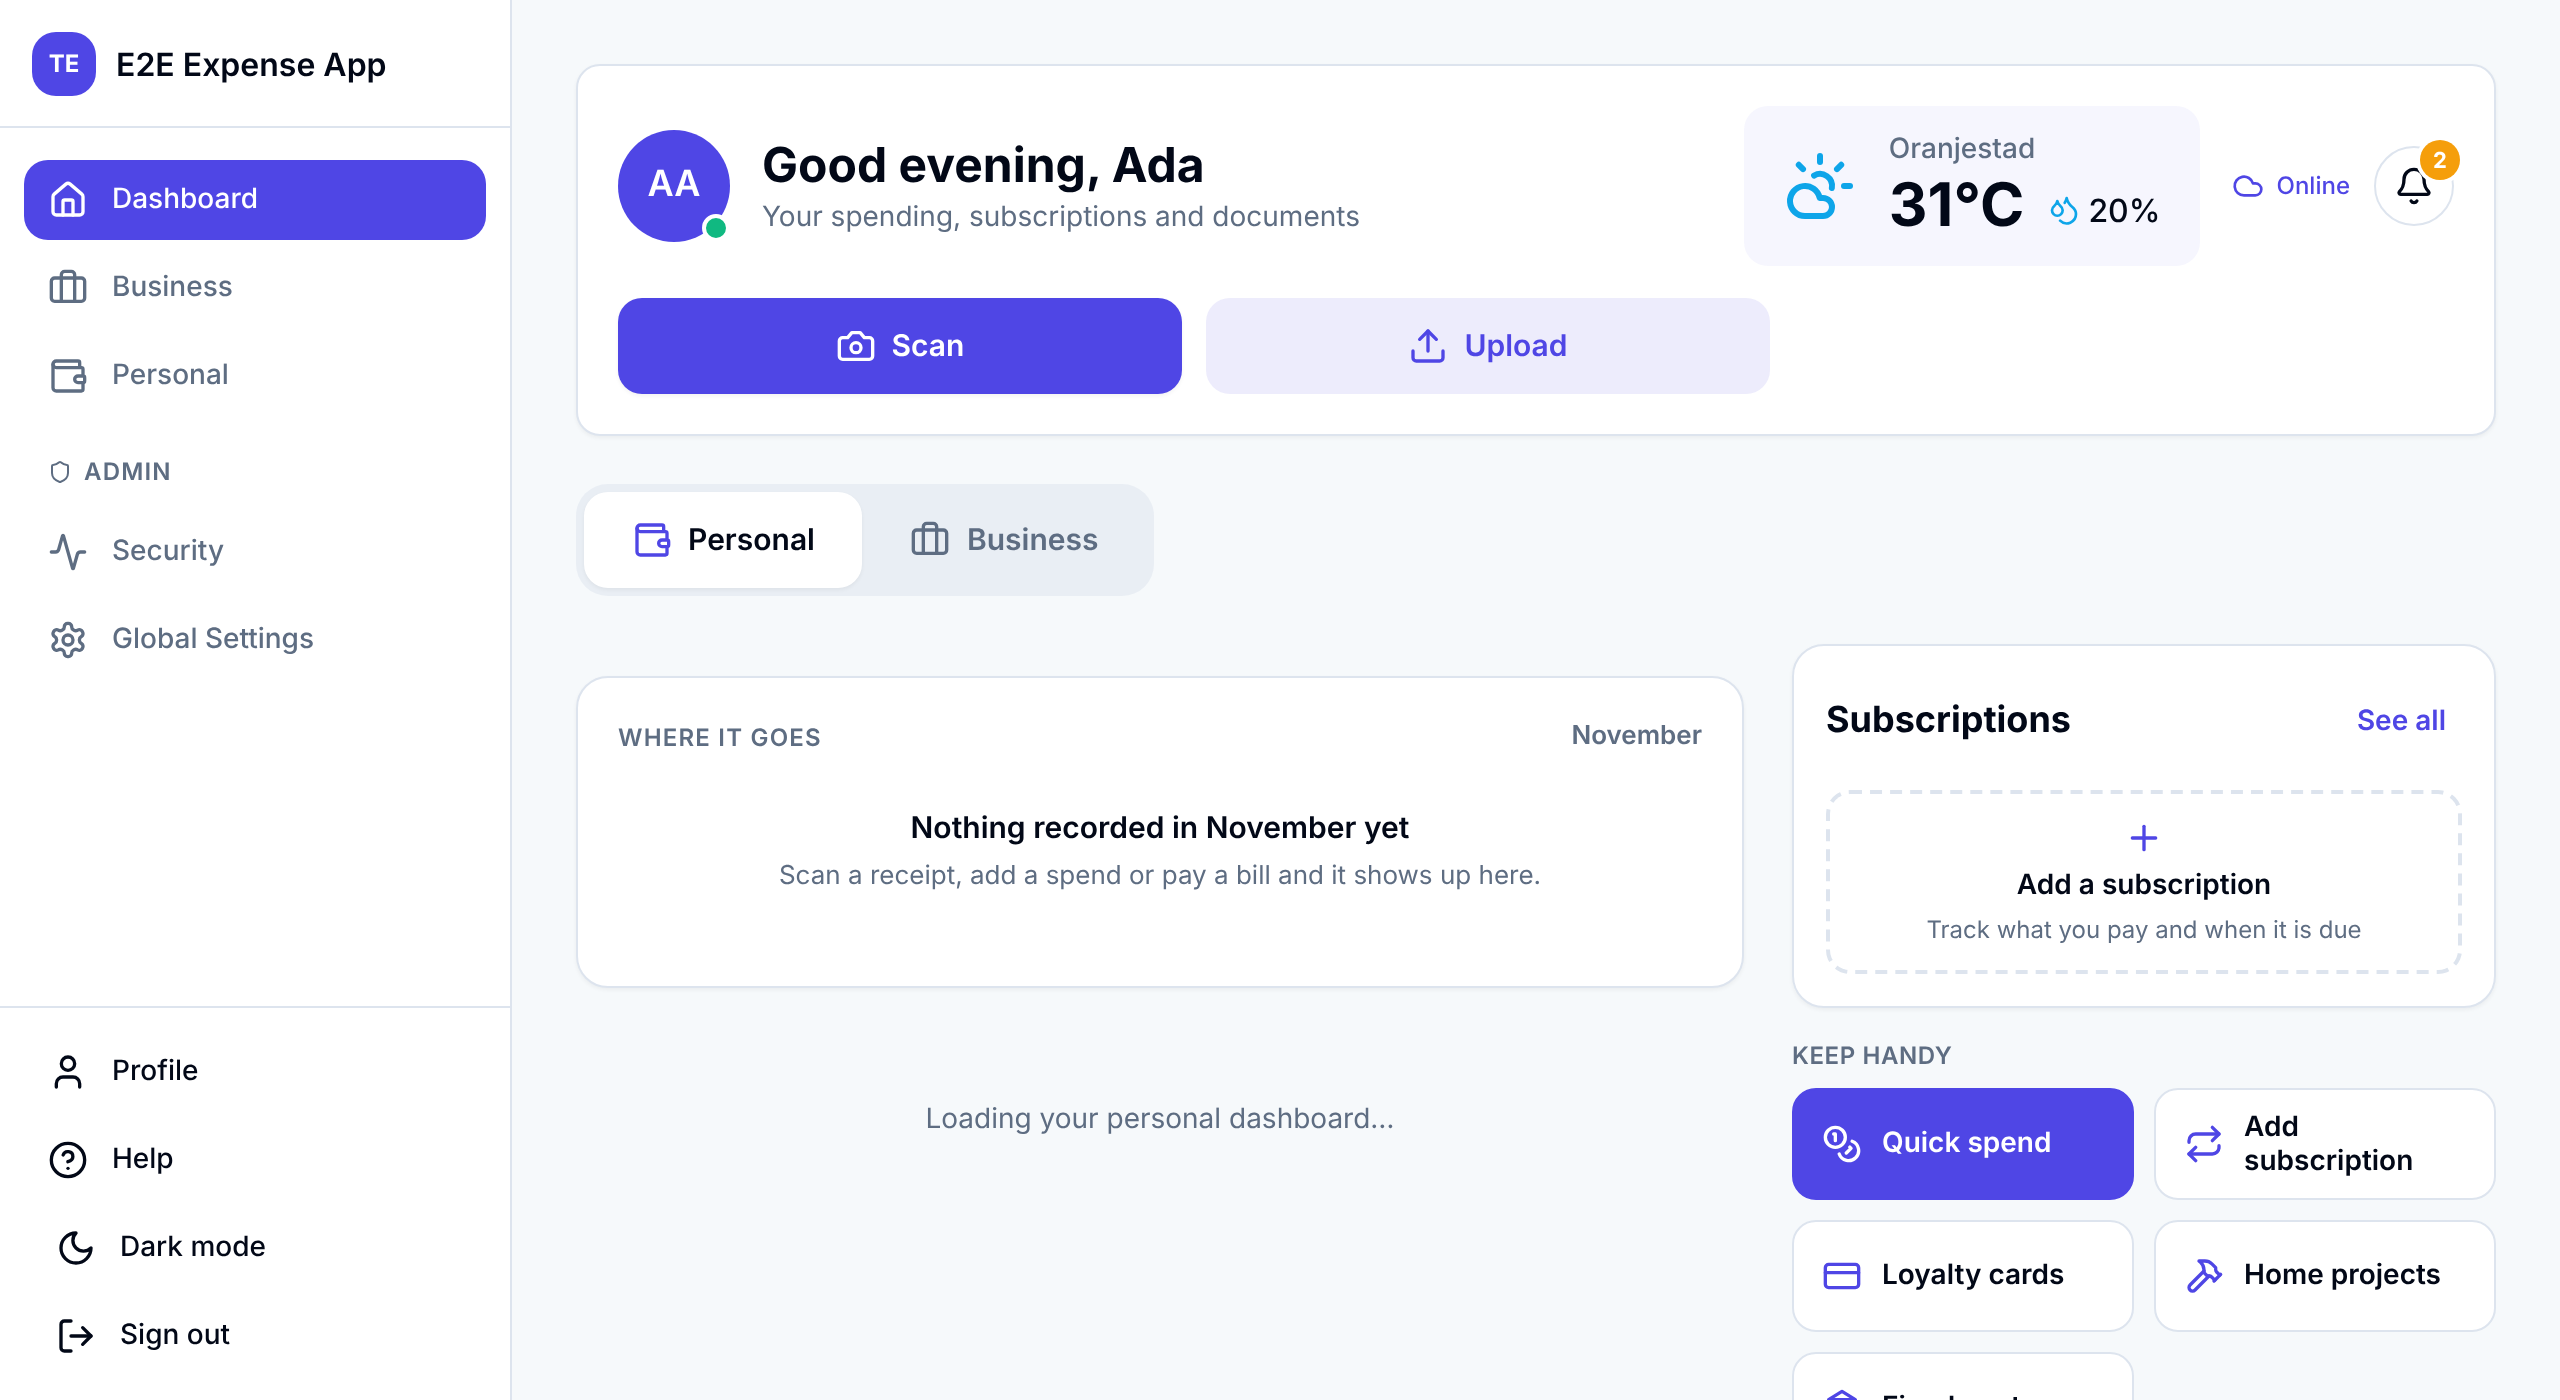
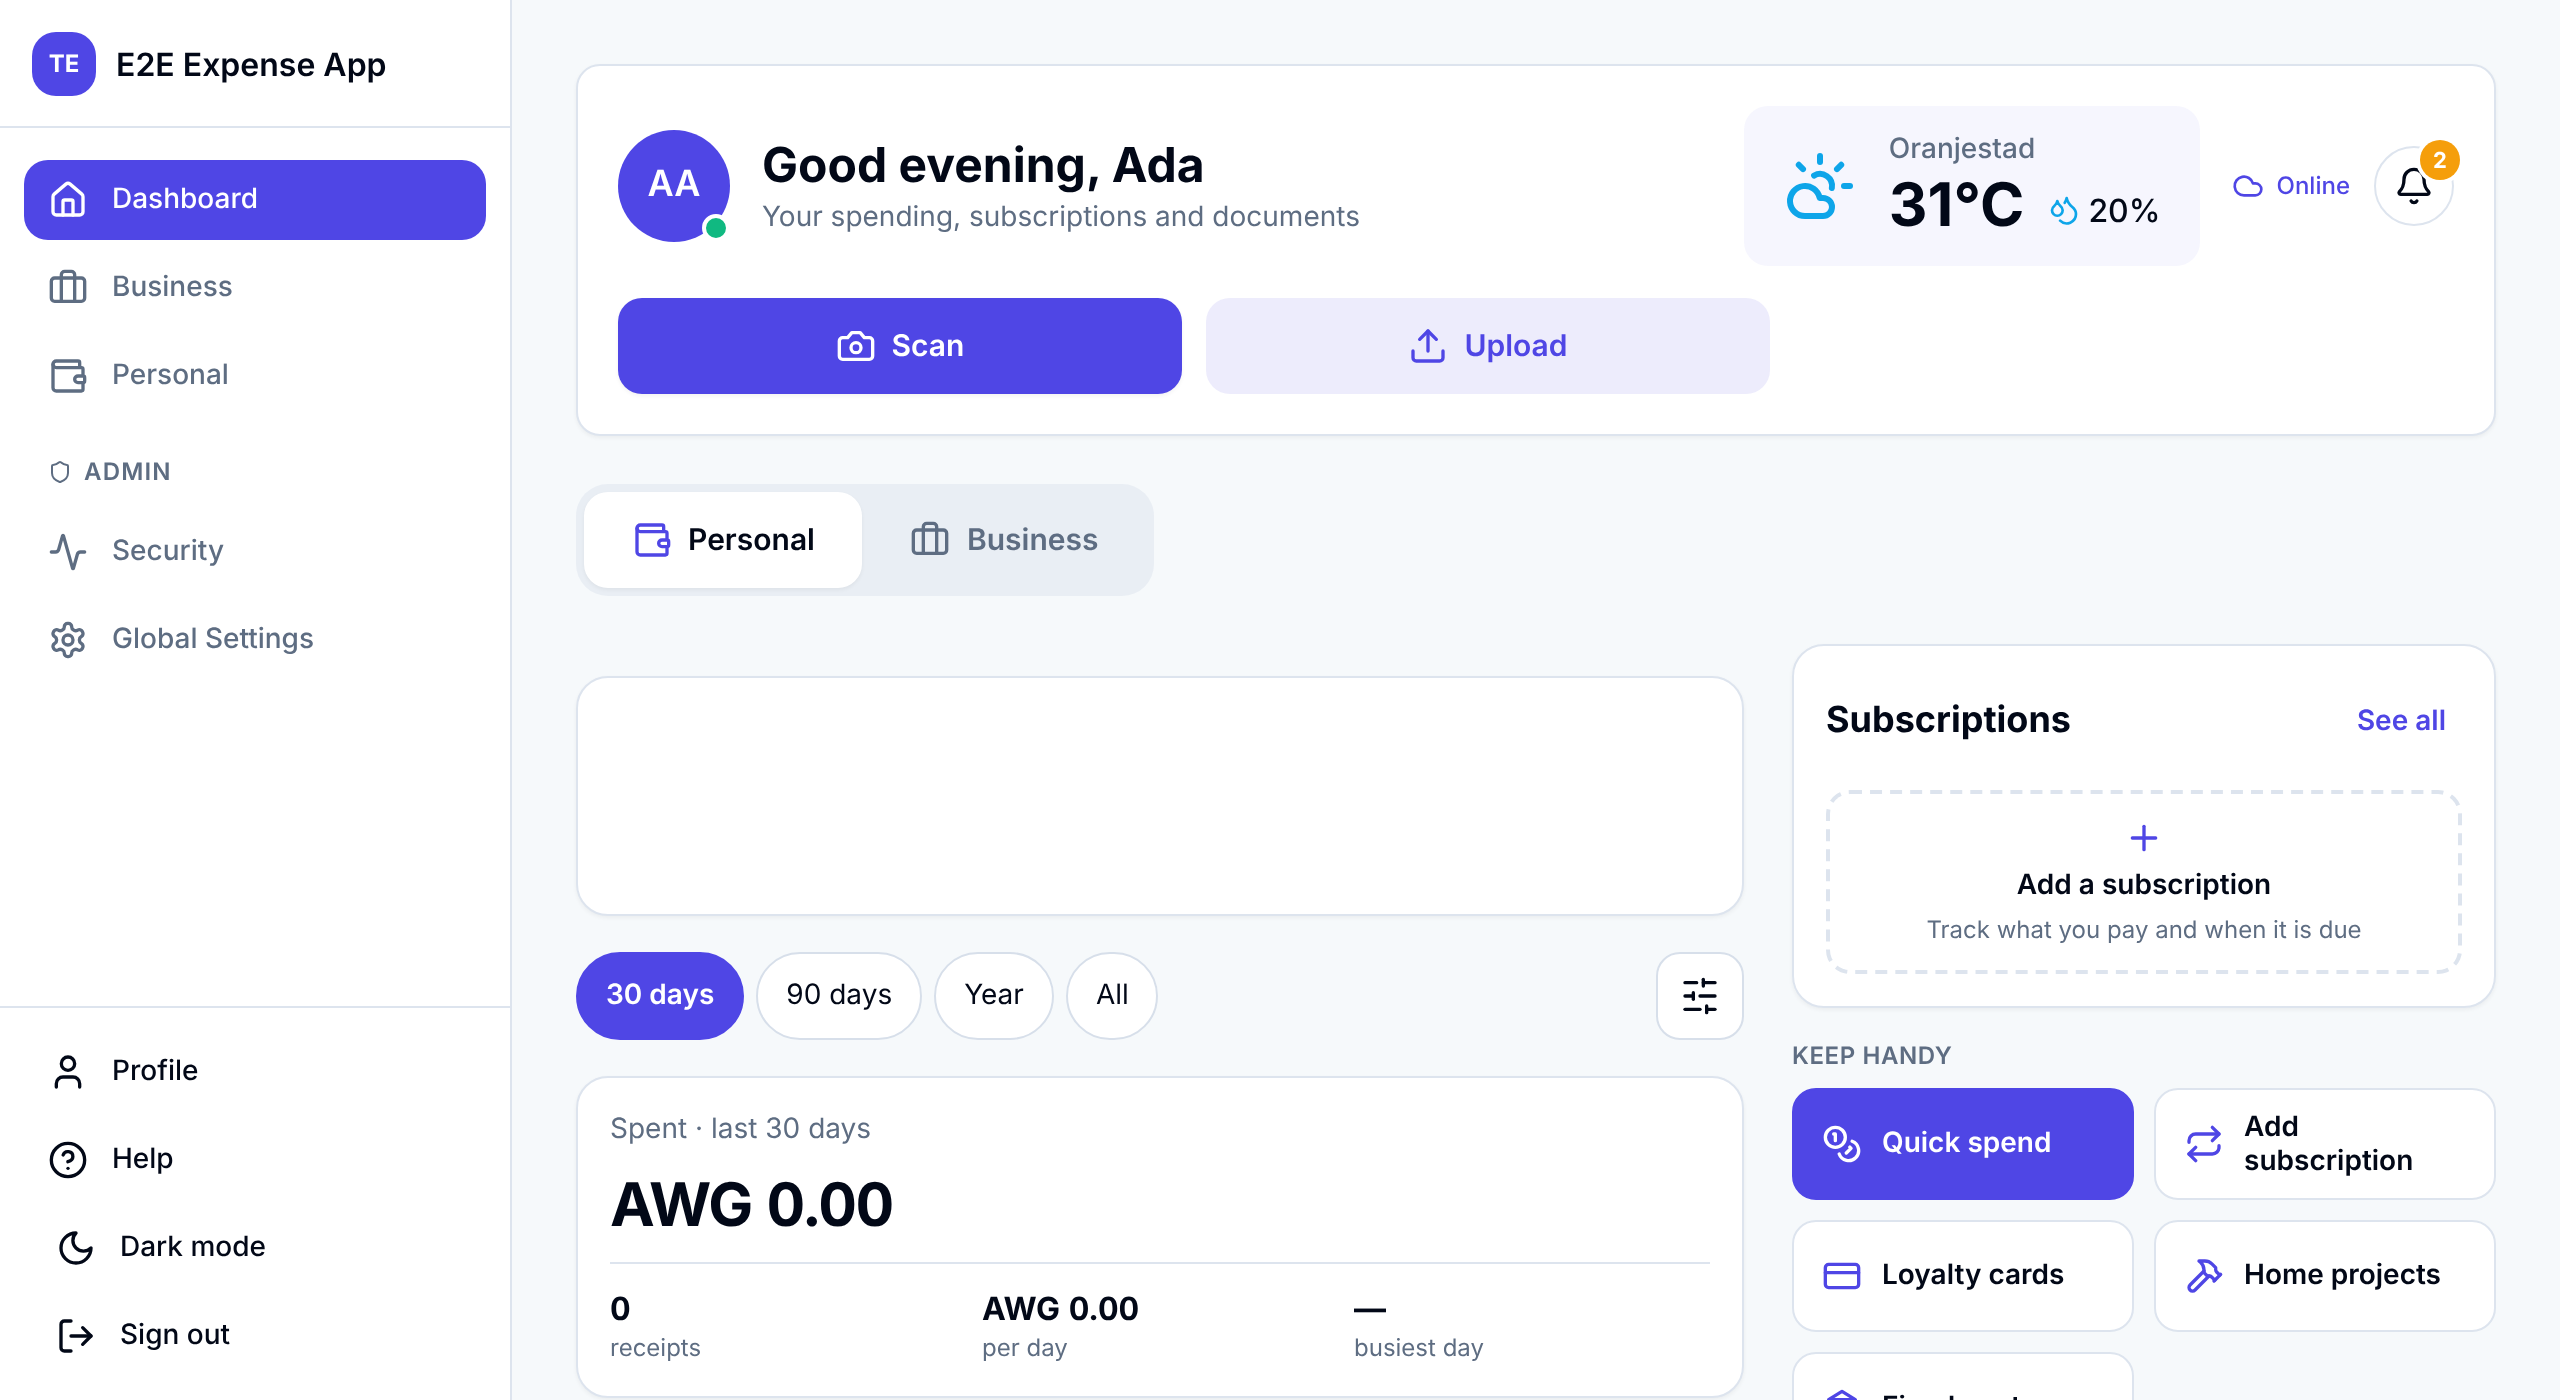
Level-up sheet in the app's style: Congratulations pill, badge, Your path, next level bar, Share my badge
Claude-Session: https://claude.ai/code/session_01CuWvFaDqwZfiNYsTiPN3JJ

diff --git a/src/components/profile/LevelUpNotice.tsx b/src/components/profile/LevelUpNotice.tsx
@@ -1,9 +1,9 @@
 "use client";
 
 import { useEffect, useMemo, useState } from "react";
-import { Share2 } from "lucide-react";
+import { Share2, X } from "lucide-react";
 import { createClient } from "@/lib/supabase/client";
-import { levelUpToShow, progress, readBadge, tierOf, plural, type BadgeState } from "@/lib/personal/badges";
+import { TIERS, levelUpToShow, progress, readBadge, tierOf, plural, type BadgeState } from "@/lib/personal/badges";
 import { BadgeShield } from "@/components/profile/BadgeShield";
 import { BadgeShare } from "@/components/profile/BadgeShare";
 import { Button } from "@/components/ui/button";
@@ -44,33 +44,60 @@ export function LevelUpNotice({ check = 0 }: { check?: number }) {
   if (!t) return null;
   const p = progress(b.total);
   const done = async () => { setB(null); try { await createClient().rpc("ack_badge"); } catch { /* shown again next time */ } };
+  const lvl = t.level;
+  const headline = lvl === 1 ? "Your first badge!" : `You are a ${t.name}!`;
+  const sparkle = (c: string, size: number, pos: React.CSSProperties) => <svg width={size} height={size} viewBox="0 0 24 24" fill={c} style={{ position: "absolute", ...pos }} aria-hidden="true"><path d="M12 1l2.6 8.4L23 12l-8.4 2.6L12 23l-2.6-8.4L1 12l8.4-2.6z" /></svg>;
   return (
     <>
       <style>{CSS}</style>
-      <div className="fixed inset-0 z-50 flex items-center justify-center overflow-hidden p-4" style={{ background: `linear-gradient(165deg, ${t.dark}, #0f766e)` }} role="dialog" aria-modal="true" aria-label={`New badge: ${t.name}`} data-testid="level-up">
-        <div className="pointer-events-none absolute inset-0 overflow-hidden" aria-hidden="true">
+      <div className="fixed inset-0 z-[55] flex items-end justify-center overflow-hidden bg-slate-900/60" role="dialog" aria-modal="true" aria-label={`New badge: ${t.name}`} data-testid="level-up">
+        <div className="pointer-events-none absolute inset-0 z-10 overflow-hidden" aria-hidden="true">
           {pieces.map((c, i) => <i key={i} className="lu-conf" style={{ left: `${c.left}%`, width: c.w, background: c.c, animationDuration: `${c.d}s`, animationDelay: `${c.delay}s` }} />)}
         </div>
-        <div className="relative flex w-full max-w-sm flex-col items-center text-center text-white" style={{ ["--lu-to" as string]: b.total }}>
-          <div className="relative flex h-44 w-44 items-center justify-center">
-            <div className="lu-glow absolute -inset-5 rounded-full blur-md" style={{ background: "conic-gradient(rgba(255,255,255,0),rgba(255,255,255,.55),rgba(255,255,255,0),rgba(255,255,255,.45),rgba(255,255,255,0),rgba(255,255,255,.5),rgba(255,255,255,0))" }} />
-            <div className="lu-pop relative drop-shadow-2xl"><BadgeShield level={t.level} size={150} /></div>
-          </div>
-          <p className="lu-rise mt-4 text-sm font-bold tracking-widest opacity-90" style={{ animationDelay: ".5s" }}>NEW BADGE</p>
-          <p className="lu-rise text-4xl font-extrabold leading-tight" style={{ animationDelay: ".6s" }}>{t.name}</p>
-          <p className="lu-rise mt-3 text-base leading-snug" style={{ animationDelay: ".7s" }}>
-            <b className="text-2xl"><span className="lu-cnt" data-testid="level-up-count" aria-label={String(b.total)} /></b> {b.total === 1 ? "price" : "prices"} shared.<br />
-            <span className="sr-only">You have shared {plural(b.total)}. </span>Thank you for helping everyone find cheaper groceries.
-          </p>
-          {p.next && (
-            <div className="lu-rise mt-5 w-full max-w-[280px] text-left text-sm" style={{ animationDelay: ".9s" }}>
-              Next: {p.next.name} at {p.next.from.toLocaleString("en-US")}
-              <div className="mt-1.5 h-2.5 overflow-hidden rounded-full bg-white/30"><div className="lu-bar h-full rounded-full bg-white" style={{ width: `${p.pct}%` }} /></div>
+        <div className="relative max-h-[96vh] w-full max-w-md overflow-y-auto rounded-t-[28px] bg-white px-4 pb-5 pt-3 shadow-2xl dark:bg-slate-900" style={{ ["--lu-to" as string]: b.total }}>
+          <div className="mx-auto mb-3 h-1 w-10 rounded-full bg-slate-300" aria-hidden="true" />
+          <button type="button" onClick={done} aria-label="Close" className="absolute right-3.5 top-4 flex h-10 w-10 items-center justify-center rounded-full bg-slate-100 text-slate-600 hover:bg-slate-200 dark:bg-slate-800"><X className="h-[18px] w-[18px]" aria-hidden="true" /></button>
+          <div className="flex justify-center">
+            <div className="lu-rise inline-flex items-center gap-1.5 rounded-full border border-amber-200 bg-amber-50 px-3.5 py-1.5 text-xs font-extrabold tracking-wider text-amber-800">
+              <svg width="14" height="14" viewBox="0 0 24 24" fill="#f59e0b" aria-hidden="true"><path d="M12 1l2.6 8.4L23 12l-8.4 2.6L12 23l-2.6-8.4L1 12l8.4-2.6z" /></svg>CONGRATULATIONS!
             </div>
+          </div>
+          <div className="relative mx-auto flex h-48 w-48 items-center justify-center">
+            <div className="lu-glow absolute inset-0 rounded-full" style={{ background: `radial-gradient(circle, ${t.tint} 0%, rgba(255,255,255,0) 70%)` }} />
+            <div className="lu-spin absolute inset-3.5 rounded-full border-2 border-dashed opacity-80" style={{ borderColor: t.light }} />
+            {sparkle("#f59e0b", 22, { top: 6, right: 30 })}{sparkle("#60a5fa", 14, { bottom: 30, left: 20 })}{sparkle("#facc15", 18, { bottom: 22, right: 18 })}{sparkle("#f472b6", 12, { top: 32, left: 18 })}
+            <div className="lu-pop relative drop-shadow-xl"><BadgeShield level={lvl} size={120} /></div>
+          </div>
+          <p className="lu-rise text-center text-3xl font-extrabold leading-tight" style={{ animationDelay: ".6s" }}>{headline}</p>
+          <p className="lu-rise mx-1.5 mt-2 text-center text-[15px] leading-snug text-slate-700 dark:text-slate-300" style={{ animationDelay: ".7s" }}>
+            {lvl === 1 ? "You shared your first price. Every price you add helps someone find a cheaper store." : (
+              <>You have shared <b><span className="lu-cnt" data-testid="level-up-count" /> {b.total === 1 ? "price" : "prices"}</b>. <span className="sr-only">That is {plural(b.total)}. </span>{lvl === 5 ? "Few people get this far. Thank you." : "Thank you for helping everyone find cheaper groceries."}</>
+            )}
+          </p>
+          <div className="mt-3.5 rounded-2xl border bg-card p-3">
+            <p className="mb-2 text-xs font-bold tracking-wide text-slate-600 dark:text-slate-300">YOUR PATH</p>
+            <div className="flex justify-between gap-1">
+              {TIERS.map((x) => (
+                <div key={x.level} className="flex-1 text-center">
+                  <div className="mx-auto flex h-[52px] w-[52px] items-center justify-center rounded-xl" style={x.level === lvl ? { outline: `2px solid ${x.dark}`, outlineOffset: 1 } : undefined}><BadgeShield level={x.level} size={42} locked={x.level > lvl} /></div>
+                  <p className={`mt-1 text-[10.5px] ${x.level <= lvl ? "font-bold text-foreground" : "text-slate-400"}`}>{x.name}</p>
+                  <p className="text-[10.5px] text-slate-400">{x.from.toLocaleString("en-US")}</p>
+                </div>
+              ))}
+            </div>
+          </div>
+          {p.next ? (
+            <div className="lu-rise mt-2.5 rounded-2xl border bg-slate-50 p-3 dark:bg-slate-800" style={{ animationDelay: ".9s" }}>
+              <div className="flex justify-between text-sm"><span>Next level: <b style={{ color: p.next.dark }}>{p.next.name}</b></span><span className="font-semibold text-slate-500">{p.toGo.toLocaleString("en-US")} to go</span></div>
+              <div className="mt-2 h-2.5 overflow-hidden rounded-full bg-slate-200"><div className="lu-bar h-full rounded-full bg-gradient-to-r from-blue-500 to-blue-700" style={{ width: `${p.pct}%` }} /></div>
+              <div className="mt-1.5 flex justify-between text-xs text-slate-400"><span>{b.total.toLocaleString("en-US")} / {p.next.from.toLocaleString("en-US")} prices</span><span>{p.pct}% there</span></div>
+            </div>
+          ) : (
+            <div className="mt-2.5 rounded-2xl border border-blue-200 bg-blue-50 p-3 text-sm leading-snug text-blue-900"><b>You reached the top level.</b> Thank you. Your count keeps growing, and so does the help for everyone.</div>
           )}
-          <div className="lu-rise mt-6 w-full space-y-2" style={{ animationDelay: "1s" }}>
-            <Button className="h-12 w-full bg-blue-700 text-base text-white hover:bg-blue-600" onClick={() => setSharing(true)} data-testid="level-up-share"><Share2 className="h-5 w-5" aria-hidden="true" /> Share my badge</Button>
-            <Button variant="outline" className="h-12 w-full border-0 bg-white text-base text-slate-900 hover:bg-white/90" onClick={done} data-testid="level-up-done">Done</Button>
+          <div className="mt-3.5 space-y-1.5">
+            <Button className="h-12 w-full text-base" onClick={() => setSharing(true)} data-testid="level-up-share"><Share2 className="h-5 w-5" aria-hidden="true" /> Share my badge</Button>
+            <Button variant="ghost" className="h-11 w-full text-[15px] font-bold text-slate-600" onClick={done} data-testid="level-up-done">Done</Button>
           </div>
         </div>
       </div>
